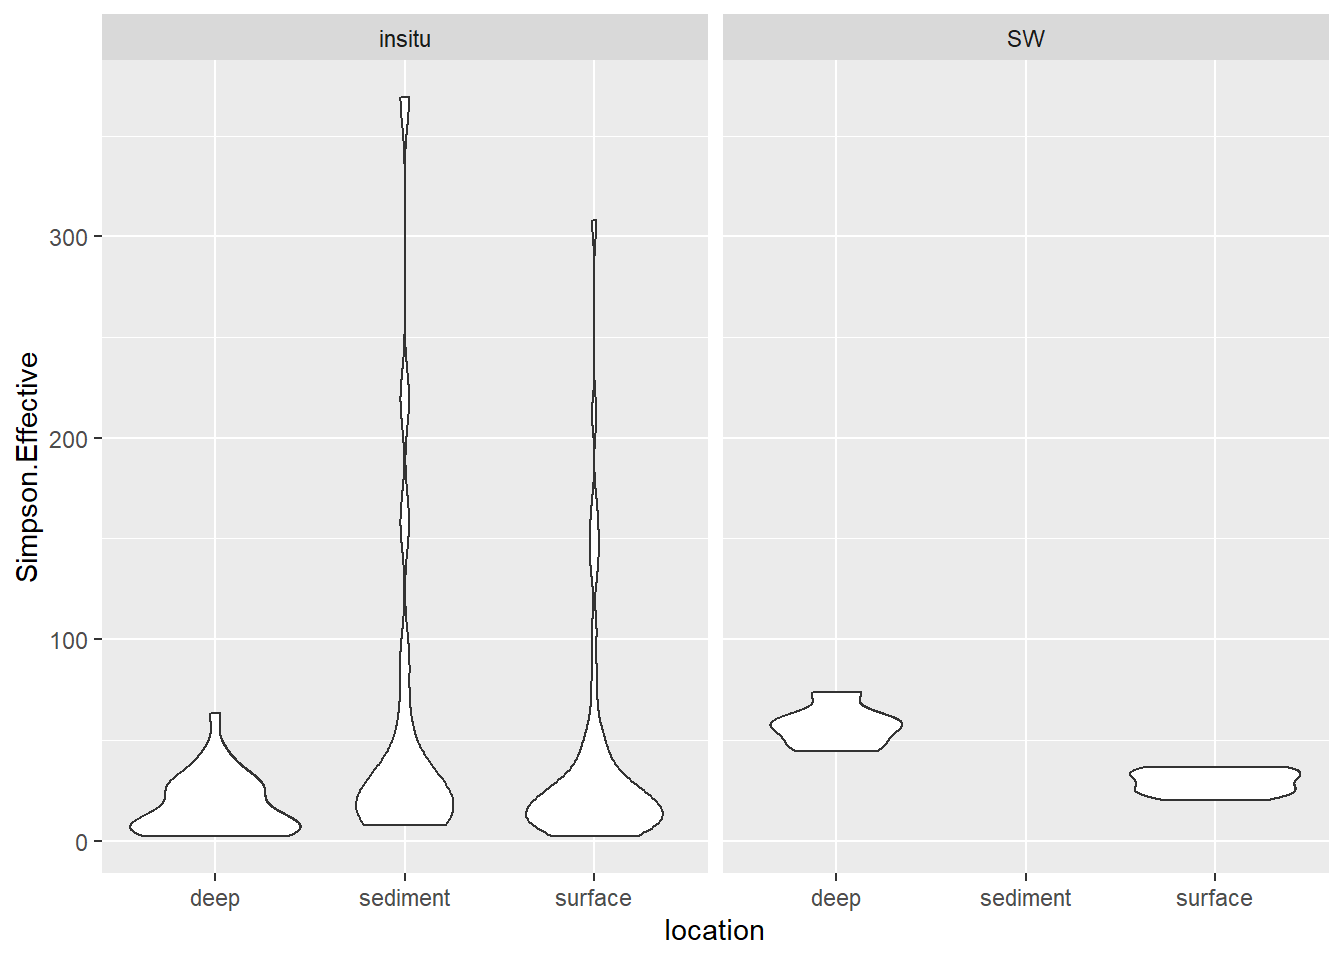
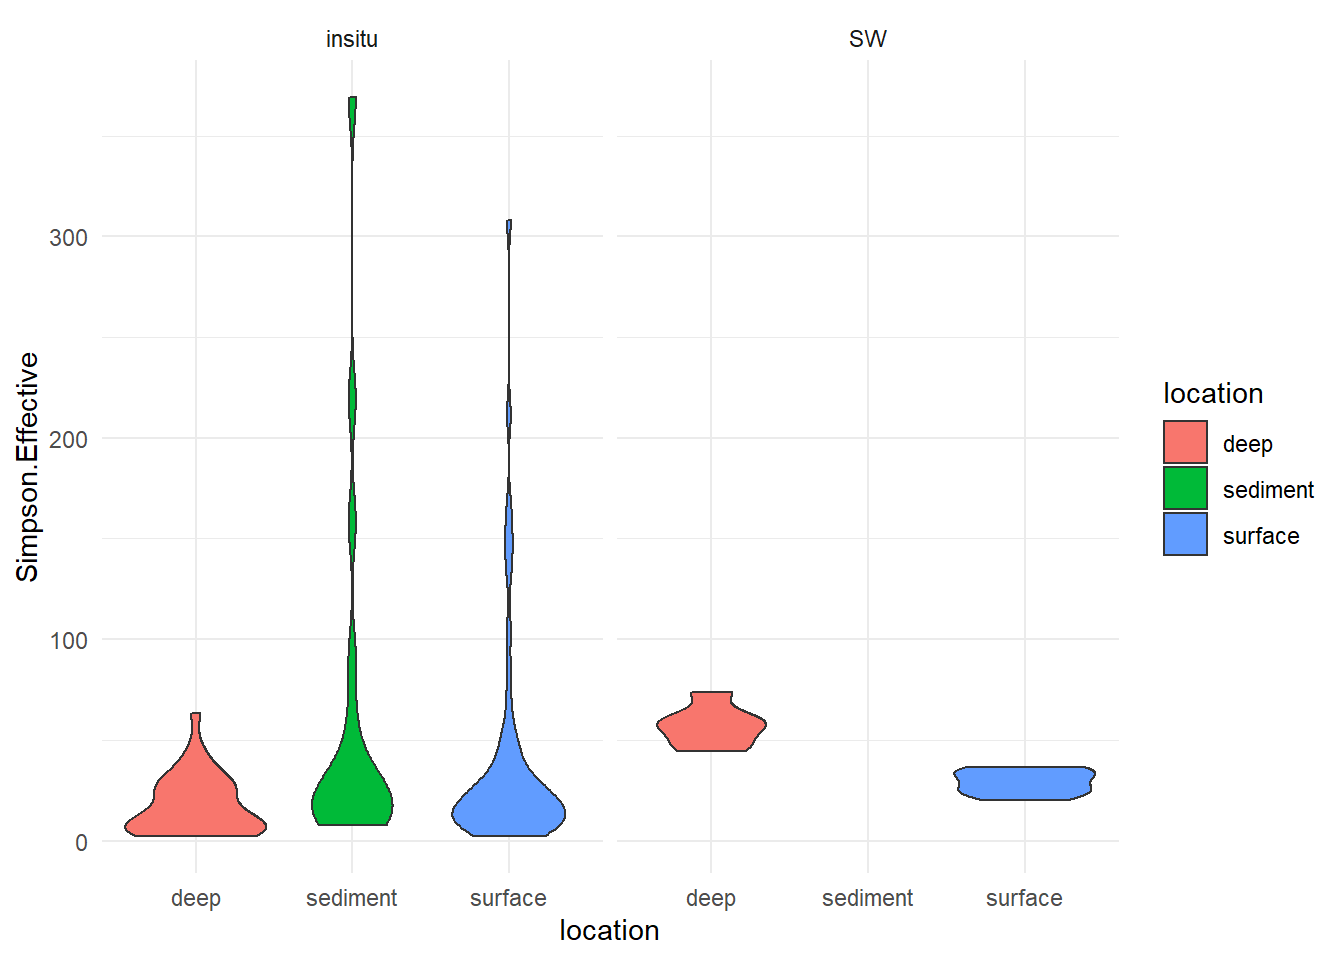
Build site.

diff --git a/docs/5_step_1.html b/docs/5_step_1.html
@@ -508,16 +508,16 @@ C:/Users/ASUS/Google Drev/AU/Aktuelle/PiB/Project_in_Bioinformatics_E21
 <div class="panel panel-default">
 <div class="panel-heading">
 <p class="panel-title">
-<a data-toggle="collapse" data-parent="#workflowr-checks" href="#strongRepositoryversionstrongahrefhttpsgithubcomstinekryeProjectinBioinformaticsE21treef18b84e59146e6dae5dc9735e2b5189df6b6cc0btargetblankf18b84ea"> <span class="glyphicon glyphicon-ok text-success" aria-hidden="true"></span> <strong>Repository version:</strong> <a href="https://github.com/stinekrye/Project_in_Bioinformatics_E21/tree/f18b84e59146e6dae5dc9735e2b5189df6b6cc0b" target="_blank">f18b84e</a> </a>
+<a data-toggle="collapse" data-parent="#workflowr-checks" href="#strongRepositoryversionstrongahrefhttpsgithubcomstinekryeProjectinBioinformaticsE21treee56437a51841be04b3f1beaf296a0ebcfb1422f0targetblanke56437aa"> <span class="glyphicon glyphicon-ok text-success" aria-hidden="true"></span> <strong>Repository version:</strong> <a href="https://github.com/stinekrye/Project_in_Bioinformatics_E21/tree/e56437a51841be04b3f1beaf296a0ebcfb1422f0" target="_blank">e56437a</a> </a>
 </p>
 </div>
[2 lines of base64/hex data omitted]
 <div class="panel-body">
 <p>
 Great! You are using Git for version control. Tracking code development and connecting the code version to the results is critical for reproducibility.
 </p>
 <p>
-The results in this page were generated with repository version <a href="https://github.com/stinekrye/Project_in_Bioinformatics_E21/tree/f18b84e59146e6dae5dc9735e2b5189df6b6cc0b" target="_blank">f18b84e</a>. See the <em>Past versions</em> tab to see a history of the changes made to the R Markdown and HTML files.
+The results in this page were generated with repository version <a href="https://github.com/stinekrye/Project_in_Bioinformatics_E21/tree/e56437a51841be04b3f1beaf296a0ebcfb1422f0" target="_blank">e56437a</a>. See the <em>Past versions</em> tab to see a history of the changes made to the R Markdown and HTML files.
 </p>
 <p>
 Note that you need to be careful to ensure that all relevant files for the analysis have been committed to Git prior to generating the results (you can use <code>wflow_publish</code> or <code>wflow_git_commit</code>). workflowr only checks the R Markdown file, but you know if there are other scripts or data files that it depends on. Below is the status of the Git repository when the results were generated:
@@ -571,6 +571,40 @@ Message
 </tr>
 </thead>
 <tbody>
+<tr>
+<td>
+Rmd
+</td>
+<td>
+<a href="https://github.com/stinekrye/Project_in_Bioinformatics_E21/blob/e56437a51841be04b3f1beaf296a0ebcfb1422f0/analysis/5_step_1.Rmd" target="_blank">e56437a</a>
+</td>
+<td>
+stinekrye
+</td>
+<td>
+2021-10-06
+</td>
+<td>
+wflow_publish(“./analysis/5_step_1.Rmd”)
+</td>
+</tr>
+<tr>
+<td>
+html
+</td>
+<td>
+<a href="https://rawcdn.githack.com/stinekrye/Project_in_Bioinformatics_E21/c679c8301eb4a74cc7977eb8331a7d1e8b90643f/docs/5_step_1.html" target="_blank">c679c83</a>
+</td>
+<td>
+stinekrye
+</td>
+<td>
+2021-10-06
+</td>
+<td>
+Build site.
+</td>
+</tr>
 <tr>
 <td>
 Rmd
@@ -854,9 +888,12 @@ ASV10001                              0                              0</code></p
 <p>The following has been changed in the Rhea Normalization.R file: setwd(“C:/Users/ASUS/Google Drev/AU/Aktuelle/PiB/Project_in_Bioinformatics_E21/code/Rhea-master/1.Normalization”) file_name &lt;- “oil_ASVtable_RHEA.txt” labelCutoff &lt;- 10</p>
 <pre class="r"><code>#source(&quot;./code/Rhea-master/1.Normalization/Normalization.R&quot;)
 #setwd(&quot;C:/Users/ASUS/Google Drev/AU/Aktuelle/PiB/Project_in_Bioinformatics_E21&quot;)</code></pre>
-<p>Use the slope of the rarefaction curve to decide cut-off<br />
-- ** How do you do this? **<br />
-- My idea: Make a plot whuch enables us to find the outliers and cut them away. The cut-off can be choosen based on a visual expection</p>
+<blockquote>
+<p>How do you usually Use the slope of the rarefaction curve to decide cut-off? How do decide on value + how to do it in R</p>
+</blockquote>
+<ul>
+<li>My idea: Make a plot whuch enables us to find the outliers and cut them away. The cut-off can be choosen based on a visual expection</li>
+</ul>
 <pre class="r"><code>rslope &lt;- read.delim(&quot;./code/Rhea-master/1.Normalization/1_RarefactionCurve.TAB&quot;, sep = &quot;\t&quot;, check.names = F)
 
 rslope %&gt;% ggplot(mapping = aes(x = reorder(SampleID, -slope), y = slope)) +
@@ -914,15 +951,18 @@ alphaSampleData &lt;- merge(sampleData, alpha, by = 0)</code></pre>
 <h4>Plot type 1: Show richness in different groups</h4>
 <p>The data is seperated into in situ vs. SW and then additionally seperated into deep, sediment and surface</p>
 <pre class="r"><code>alphaSampleData %&gt;% ggplot(mapping = aes(x = location, y = Simpson.Effective)) +
-  geom_violin() +
+  geom_violin(aes(fill = location)) +
+  theme_minimal() +
   facet_wrap(&quot;type&quot;)</code></pre>
 <p><img src="figure/5_step_1.Rmd/unnamed-chunk-13-1.png" width="672" style="display: block; margin: auto;" /></p>
 <pre class="r"><code>alphaSampleData %&gt;% ggplot(mapping = aes(x = location, y = Simpson.Effective)) +
   geom_jitter(aes(color = oil)) +
+  theme_minimal() +
   facet_wrap(&quot;type&quot;)</code></pre>
 <p><img src="figure/5_step_1.Rmd/unnamed-chunk-13-2.png" width="672" style="display: block; margin: auto;" /></p>
 <pre class="r"><code>alphaSampleData %&gt;% ggplot(mapping = aes(x = location, y = Simpson.Effective)) +
   geom_jitter(aes(color = Evenness)) +
+  theme_minimal() +
   facet_wrap(&quot;type&quot;)</code></pre>
 <p><img src="figure/5_step_1.Rmd/unnamed-chunk-13-3.png" width="672" style="display: block; margin: auto;" /></p>
 <blockquote>
@@ -930,9 +970,9 @@ alphaSampleData &lt;- merge(sampleData, alpha, by = 0)</code></pre>
 </blockquote>
 <p>When using effective richness (enumeration) the distribution looks random. Does this show that the samples with oils might be dominated by a few species?</p>
 <ul>
-<li>Notes on Simpson: Look up the formula. Takes the number of species and their abundance into account. A sample with large evenness is considered more diverse than a sample dominated by a few species (possible enrichment)</li>
+<li><p>Notes on Simpson: Look up the formula. Takes the number of species and their abundance into account. A sample with large evenness is considered more diverse than a sample dominated by a few species (possible enrichment) *</p></li>
+<li><p>Notes on Shannon: H = (Relative proportion of species * the natural logarithmic function of that relative proportion) summed over all species. Evenness is H / ln(S) where S is the total number of species in that sample. Low evenness means that a few species dominate *</p></li>
 </ul>
-<p>Notes on Shannon: H = (Relative proportion of species * the natural logarithmic function of that relative proportion) summed over all species. Evenness is H / ln(S) where S is the total number of species in that sample. Low evenness means that a few species dominate *</p>
 </div>
 <div id="plot-type-2-visualize-the-relationsship-between-alpha-diversity-and-cpcr-numbers" class="section level4">
 <h4>Plot type 2: Visualize the relationsship between alpha-diversity and cPCR numbers</h4>
